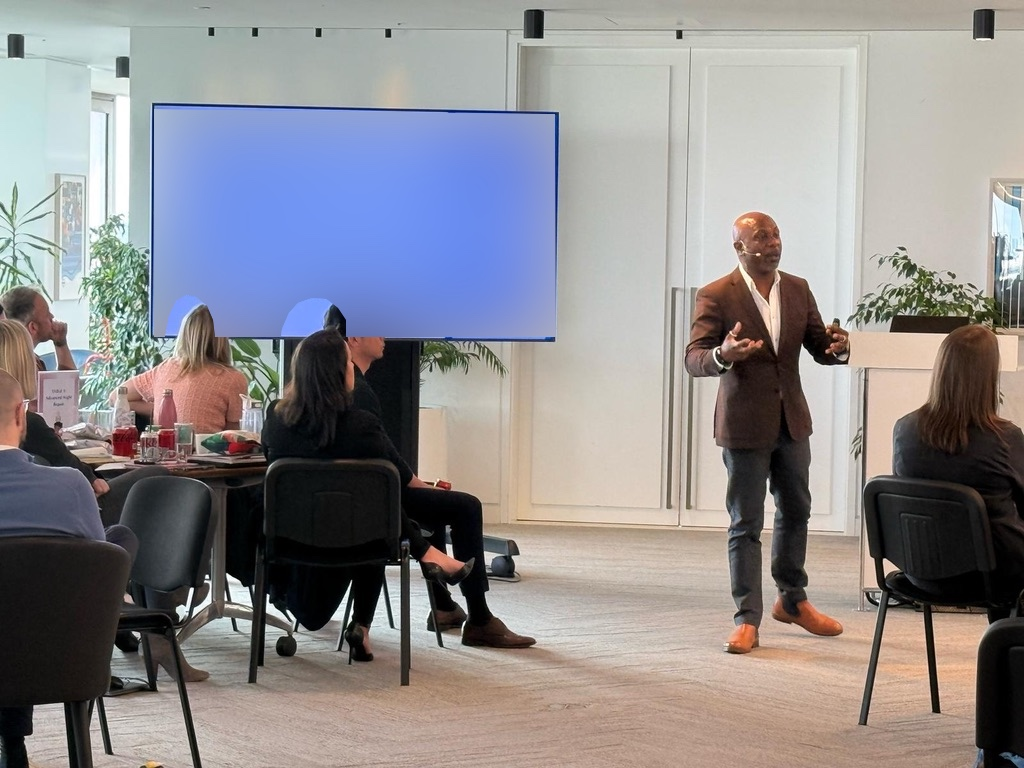
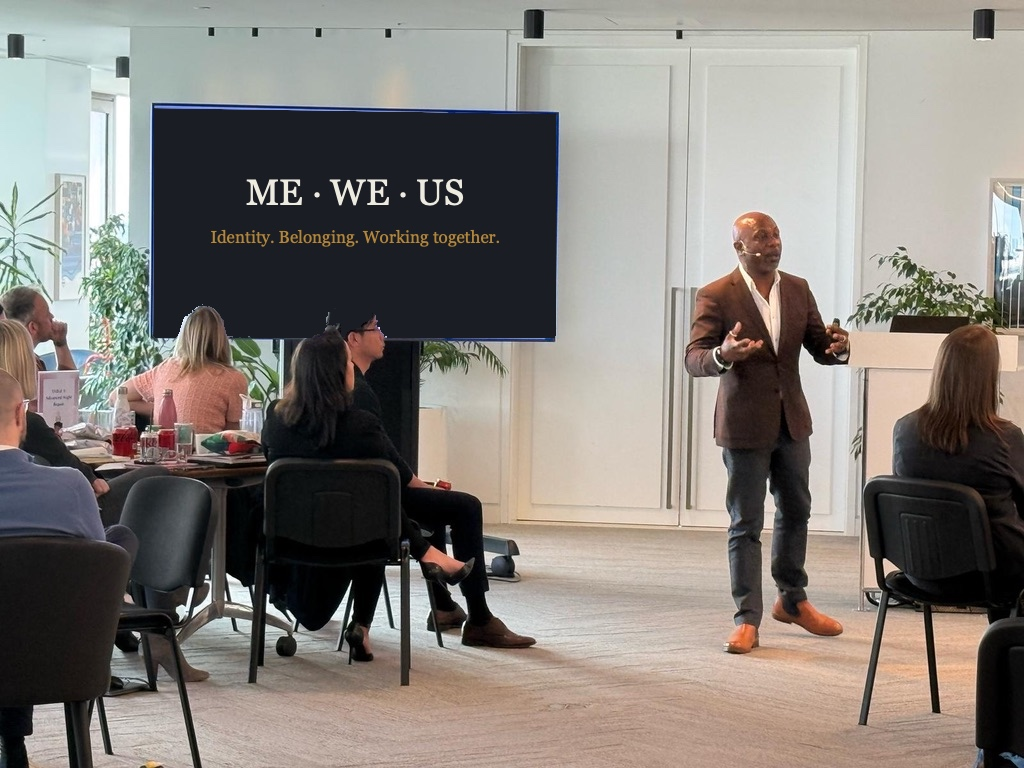
Use illustrative Me We Us screen content

Changed region(s): [[0.125, 0.125, 0.5625, 0.4375]]

diff --git a/speaking.html b/speaking.html
@@ -54,7 +54,7 @@
 <div class="talk"><div><p class="eyebrow">03 · Possibility and transition</p><h3>The Hero’s Journey</h3><p class="subtitle">Exploring our relationship with change</p></div><div><p>A call to something different. Reasons to stay where we are. A threshold we have not yet crossed.</p><p>The Hero’s Journey offers a metaphor for exploring uncertainty, the people who walk with us and what we discover along the way. We use it to ask what our current situation might be inviting, and which paths we want to explore.</p><p>For coaching communities, this includes our own development as coaches and the journeys we accompany others on.</p><p class="credit">Delivered for Optimus Coach Academy and Animas Centre for Coaching.</p></div></div><div class="talk"><div><p class="eyebrow">04 · Body and story</p><h3>Embodied Narratives</h3><p class="subtitle">Our bodies and their stories</p></div><div><p>What might we discover if we listened to more than the words?</p><p>An experiential session exploring the relationship between our physical experience and the stories we tell. Drawing on my training in Physical Intelligence, narrative coaching and my background in physical theatre, we use movement and guided reflection to notice what is happening in the body and become curious about the stories connected to it.</p><p>For coaches and practitioner communities interested in deepening their listening and exploring ways of working beyond words. The original session included a coaching demonstration and reflection on bringing the work into practice.</p><p class="credit">Presented at the WBECS Full Summit, 2022.</p></div></div></section>
 <section class="feedback"><div class="wrap"><p class="eyebrow" style="color:#79591f">From the room · Tending the Flame</p><blockquote>“The real shift happens when we move from what we SHOULD do to what we WANT to explore. It’s a reminder I’m taking into my own coaching, and my business too.”<cite>Tanzyla Tareen · Reflection shared on LinkedIn following the talk</cite></blockquote></div></section>
 <section class="experience"><h2>What might become possible in your room?</h2><p>There may be laughter, a moment of recognition or a question that unsettles a familiar answer. There is space to reflect on your own experience, rather than simply listen to mine.</p><p>We can explore what is missing. What we really want. Who we are being in relation to the challenge. And the different paths we might walk before committing to our next step.</p><p>The format and emphasis can be shaped around your audience and event. Our first conversation is about who is coming, what they are navigating and what you would like to make possible for them.</p></section>
-<section class="experience" id="leadership-in-the-room"><p class="eyebrow" style="color:#79591f">With leaders, in the room</p><h2>Space for a different conversation.</h2><p>Speaking and training with Estée Lauder’s UK and Ireland extended executive team, exploring narrative, belonging and new ways of working together.</p><div class="speaking-gallery"><figure><img src="estee-lauder-speaking.jpeg?v=protected-1" alt="Robert speaking with an Estée Lauder group, using an open-handed gesture as participants listen" width="1024" height="768" loading="lazy"><figcaption class="credit">Bringing ideas into conversation with the people in the room.</figcaption></figure><figure><img src="estee-lauder-conversation.jpeg?v=protected-1" alt="Robert turning towards participants during an Estée Lauder session, with a presentation screen beside him" width="1024" height="768" loading="lazy"><figcaption class="credit">Speaking, listening and exploring together.</figcaption></figure></div></section>
+<section class="experience" id="leadership-in-the-room"><p class="eyebrow" style="color:#79591f">With leaders, in the room</p><h2>Space for a different conversation.</h2><p>Speaking and training with Estée Lauder’s UK and Ireland extended executive team, exploring narrative, belonging and new ways of working together.</p><div class="speaking-gallery"><figure><img src="estee-lauder-speaking.jpeg?v=illustrative-2" alt="Robert speaking with an Estée Lauder group, using an open-handed gesture as participants listen" width="1024" height="768" loading="lazy"><figcaption class="credit">Bringing ideas into conversation with the people in the room.</figcaption></figure><figure><img src="estee-lauder-conversation.jpeg?v=illustrative-2" alt="Robert turning towards participants during an Estée Lauder session, with a presentation screen beside him" width="1024" height="768" loading="lazy"><figcaption class="credit">Speaking, listening and exploring together.</figcaption></figure></div><p class="credit" style="margin-top:18px">Screen content replaced to protect client confidentiality.</p></section>
 <section class="feedback"><div class="wrap"><blockquote>“Robert’s fantastic session in particular prompted me to think about where I am now in my coaching journey.”<cite>Merrisha Gordon · Reflection shared on LinkedIn following Tending the Flame</cite></blockquote></div></section>
 <section class="experience" id="listen"><p class="eyebrow" style="color:#79591f">Conversations beyond the stage</p><h2>Hear the thinking in conversation.</h2><p>Some of this work happens with an audience. Some of it unfolds with another person, following a question together. These are a few ways to get a feel for how I think and listen.</p><div style="border-top:1px solid var(--line-on-light);padding:28px 0"><p class="credit">Guest conversation · Coaches Rising · Episode 83 · 2021</p><h3 style="font-size:1.4rem;margin-bottom:16px">Cross-disciplinary Approaches in Narrative Coaching</h3><p>With Joel Monk, on the stories we live inside, what happens when they break down, and listening beyond words.</p><a href="https://www.coachesrising.com/podcast/cross-disciplinary-approaches-in-narrative-coaching-with-robert-stephenson/" target="_blank" rel="noopener">Listen on Coaches Rising ↗</a></div><div style="border-top:1px solid var(--line-on-light);padding:28px 0"><p class="credit">Guest conversation · The Transformative Leader Podcast · Episode 160</p><h3 style="font-size:1.4rem;margin-bottom:16px">Mastering the Craft of Coaching</h3><p>With Amir Ghannad, exploring the art of listening, the difference between coaching and other forms of support, and how we help the people who look to us for guidance.</p><a href="https://theghannadgroup.com/podcast-episodes/ttlpodcast-160" target="_blank" rel="noopener">Listen to the interview ↗</a></div><div style="border-top:1px solid var(--line-on-light);padding:28px 0"><p class="credit">A conversation I hosted · Coaching Uncaged · 2020</p><h3 style="font-size:1.4rem;margin-bottom:16px">Exploring Narrative Coaching and the Power of Stories</h3><p>My conversation with Dr David Drake, founder of Narrative Coaching, about story, silence, serious play and the space we create for someone else’s discovery.</p><a href="https://www.animascoaching.com/podcast/episode/exploring-narrative-coaching-and-the-power-of-stories-a-discussion-with-dr-david-drake/" target="_blank" rel="noopener">Listen to the conversation ↗</a></div><p><a href="/experience#conversations">Explore more podcasts and conversations →</a></p><p><a href="/ideas#published">Read published writing and contributions →</a></p></section><section class="closing"><div class="wrap"><p class="eyebrow">Speaking enquiries</p><h2>Bring the conversation into your room.</h2><p>If you are bringing people together around leadership, identity or change, let’s explore what we could create together.</p><a class="btn" href="https://calendly.com/robertstephenson/20-minute-chat">Book a Conversation →</a><p>A 20-minute conversation about your event, your audience and whether we are a good fit.</p><p>It helps to know your proposed date, location or online format, who will be in the room and what you hope they will take away. You do not need to have everything worked out before getting in touch.</p><a class="closing-link" href="mailto:robert@robertstephensoncoaching.com?subject=Speaking%20enquiry">Prefer email? Enquire about speaking</a></div></section>
 </main><footer><div class="wrap footer-inner"><span>© <span id="year"></span> Robert Stephenson</span><span><a href="/ideas">Ideas</a> · <a href="/team-coaching">Team Coaching</a> · <a href="/experience">Experience</a> · <a href="/ways-of-working">Work With Me</a> · <a href="/privacy">Privacy</a></span></div></footer>
